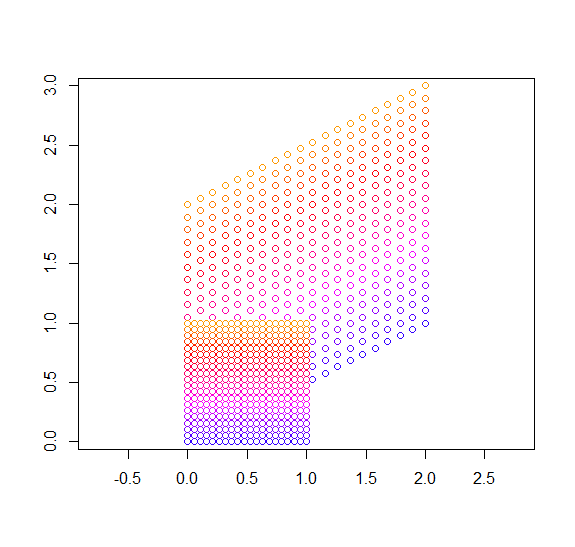
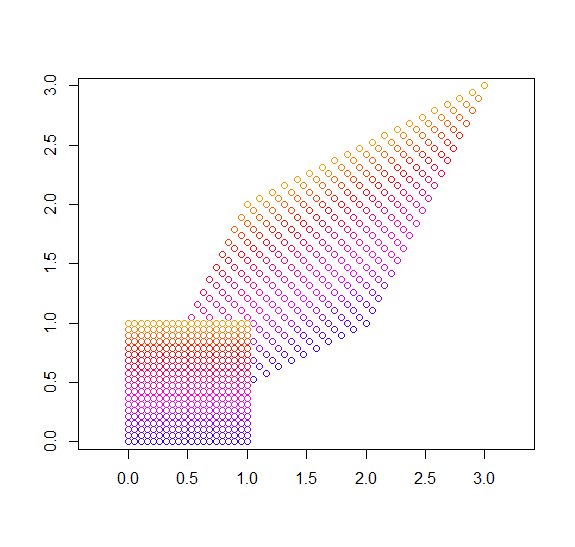
s

diff --git a/_posts/2014-12-5-algebra.md b/_posts/2014-12-5-algebra.md
@@ -56,7 +56,7 @@ $$m=\left(
 \end{array}
 \right)$$
 
-用上面的矩阵，对上图中的每一点$(x,y)'$进行线性变换，即$(2x,2y)',结果如下：
+用上面的矩阵，对上图中的每一点$(x,y)'$进行线性变换，即$(2x,2y)'$,结果如下：
 
 ![](http://gaolei786.github.com/images/xiandai2.png)
 
@@ -71,7 +71,7 @@ $$m=\left(
 \end{array}
 \right)$$
 
-用上面的矩阵，对每一点$(x,y)'$进行线性变换，即$(2x,3y)',结果如下：
+用上面的矩阵，对每一点$(x,y)'$进行线性变换，即$(2x,3y)'$,结果如下：
 
 ![](http://gaolei786.github.com/images/xiandai3.png)
 
@@ -86,7 +86,9 @@ $$m=\left(
 \end{array}
 \right)$$
 
-用上面的矩阵，对每一点$(x,y)'$进行线性变换，即$(2x+y,2y)',结果如下：
+用上面的矩阵，对每一点$(x,y)'$进行线性变换，即$(2x+y,2y)'$,结果如下：
 
 ![](http://gaolei786.github.com/images/xiandai4.png)
+
+这种变换，与前面几个不同，这个是把单位正方形，伸缩变换为平行四边形。
 
